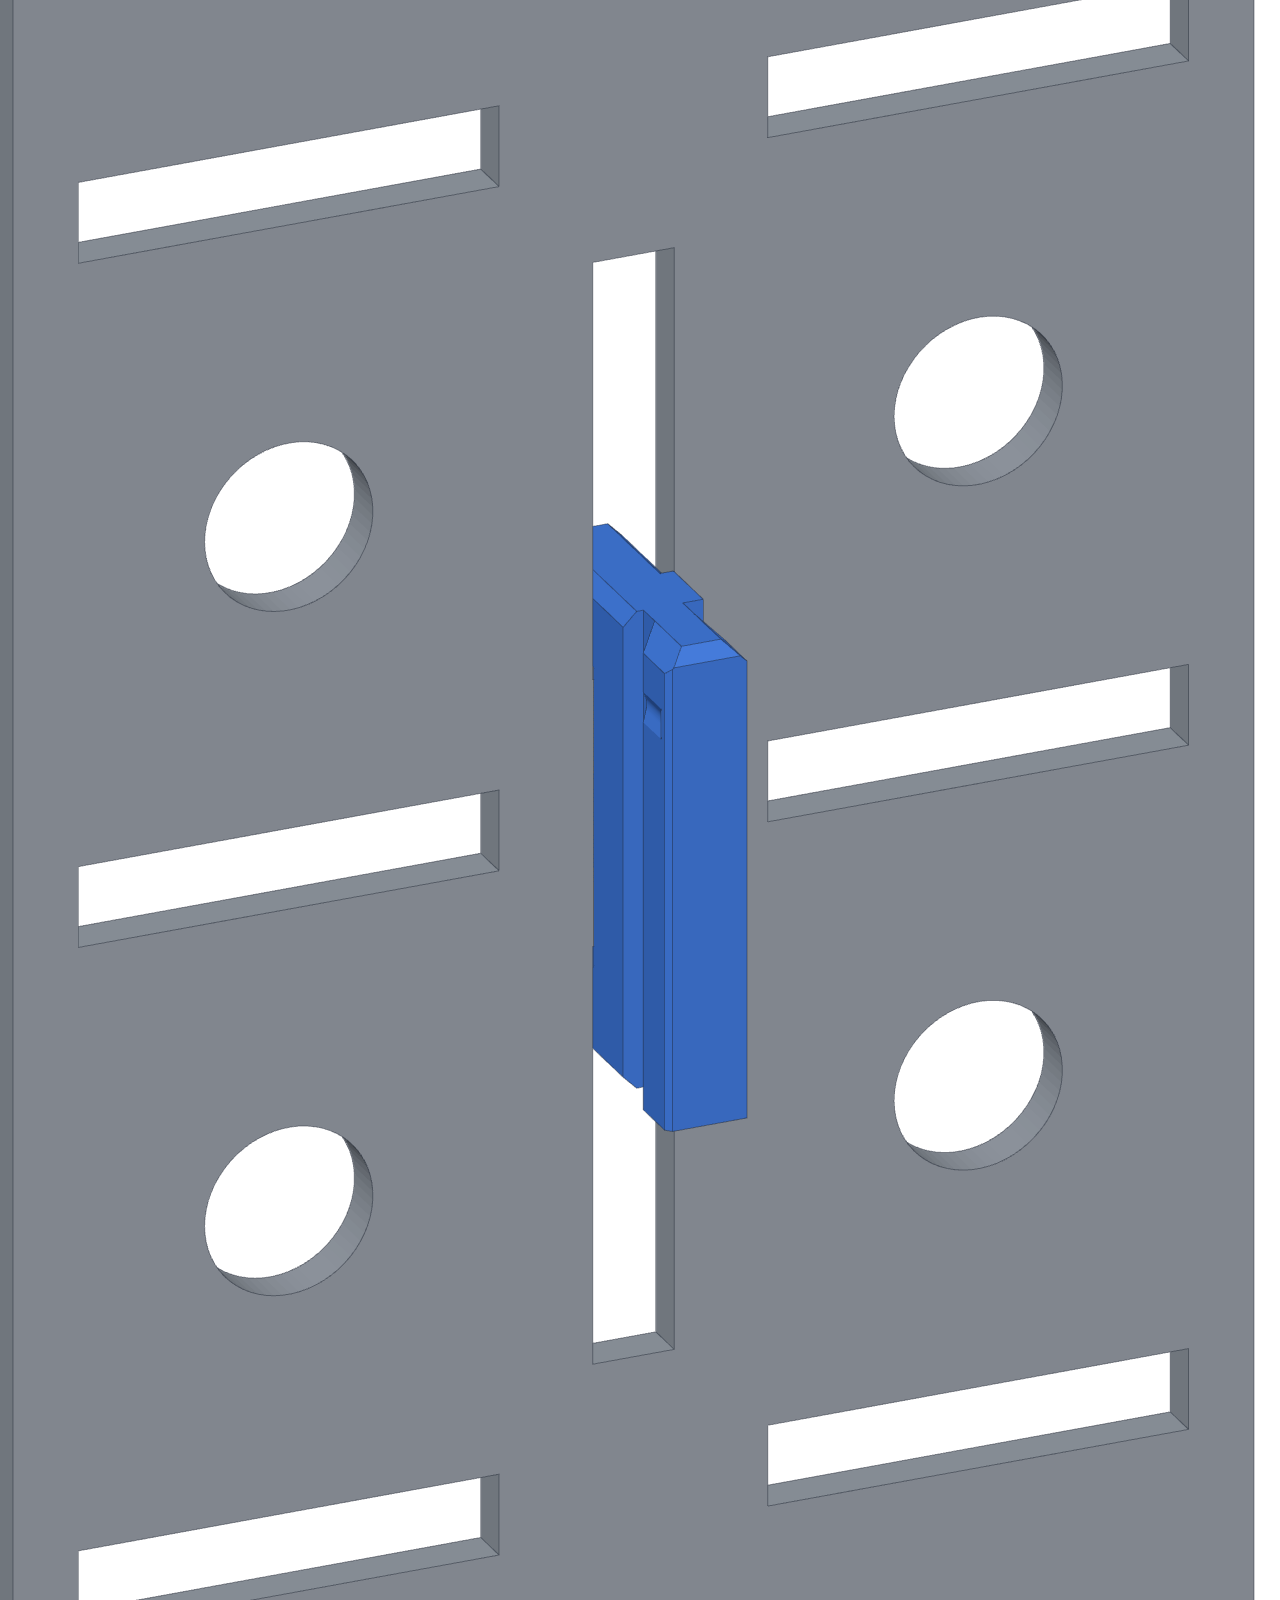
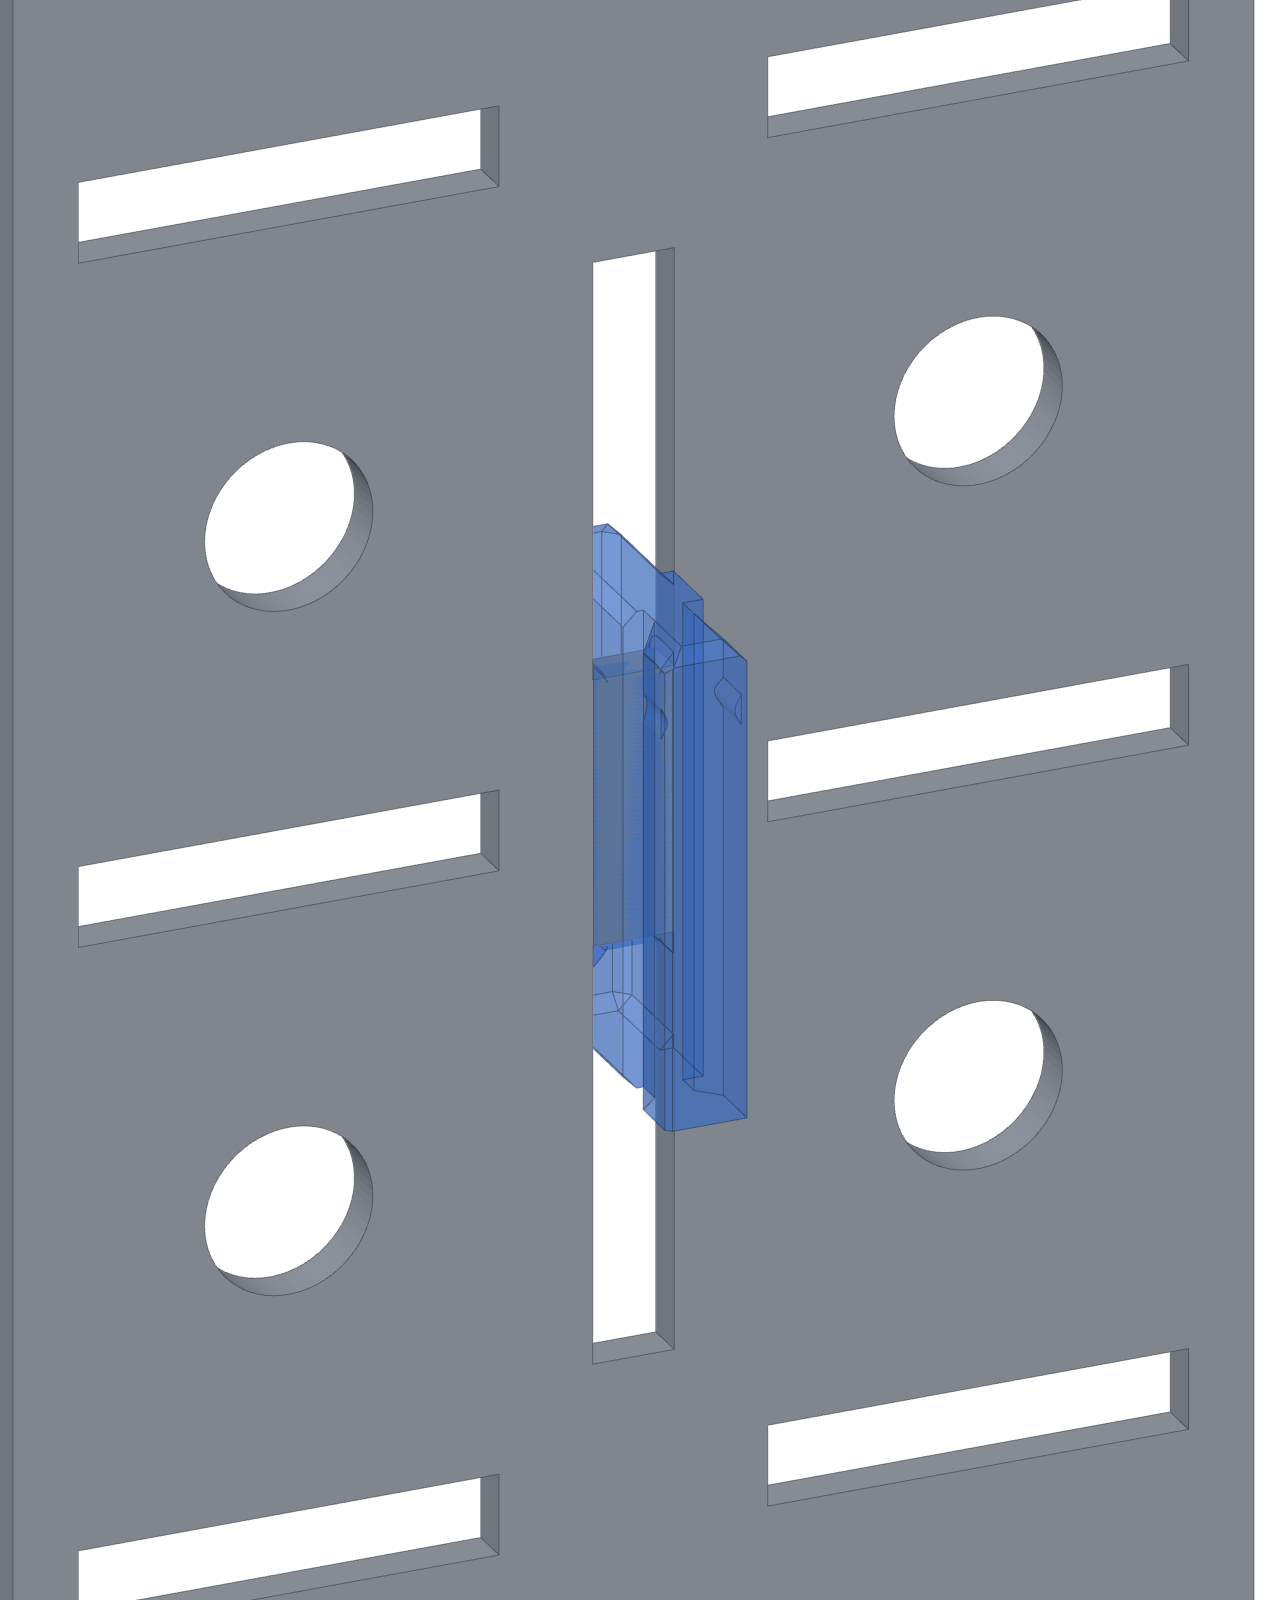
Catalog: hook front views drawn see-through, so the steel each hook grips shows behind its front

Changed region(s): [[0.4375, 0.3125, 0.5938, 0.7188]]

diff --git a/docs/omniwall/bridge-hook-1u.html b/docs/omniwall/bridge-hook-1u.html
@@ -24,7 +24,7 @@
 <img class="shot" src="img/bridge-hook-1u/hook.png" alt="The hook: dovetail front on the right, finger and foot on the left go through the panel">
 <div class="caption">The hook: dovetail front on the right, finger and foot on the left go through the panel</div>
 </div>
-<div class="thumbs"><button type="button" data-src="img/bridge-hook-1u/hook.png" data-caption="The hook: dovetail front on the right, finger and foot on the left go through the panel" aria-pressed="true"><img src="img/bridge-hook-1u/hook.png" alt=""></button><button type="button" data-src="img/bridge-hook-1u/front.png" data-caption="On the panel, from the front: objects slide down onto the dovetail" aria-pressed="false"><img src="img/bridge-hook-1u/front.png" alt=""></button><button type="button" data-src="img/bridge-hook-1u/back.png" data-caption="From behind the panel" aria-pressed="false"><img src="img/bridge-hook-1u/back.png" alt=""></button><button type="button" data-src="img/bridge-hook-1u/side.png" data-caption="Side view: wall on the left, steel in grey" aria-pressed="false"><img src="img/bridge-hook-1u/side.png" alt=""></button><button type="button" data-src="img/bridge-hook-1u/print.png" data-caption="As printed: on its flat side, no supports" aria-pressed="false"><img src="img/bridge-hook-1u/print.png" alt=""></button><button type="button" class="three" data-caption="3D view: drag to turn it" aria-pressed="false">3D</button></div>
+<div class="thumbs"><button type="button" data-src="img/bridge-hook-1u/hook.png" data-caption="The hook: dovetail front on the right, finger and foot on the left go through the panel" aria-pressed="true"><img src="img/bridge-hook-1u/hook.png" alt=""></button><button type="button" data-src="img/bridge-hook-1u/front.png" data-caption="On the panel, from the front, the hook drawn see-through so the steel behind it shows. Objects slide down onto the dovetail" aria-pressed="false"><img src="img/bridge-hook-1u/front.png" alt=""></button><button type="button" data-src="img/bridge-hook-1u/back.png" data-caption="From behind the panel" aria-pressed="false"><img src="img/bridge-hook-1u/back.png" alt=""></button><button type="button" data-src="img/bridge-hook-1u/side.png" data-caption="Side view: wall on the left, steel in grey" aria-pressed="false"><img src="img/bridge-hook-1u/side.png" alt=""></button><button type="button" data-src="img/bridge-hook-1u/print.png" data-caption="As printed: on its flat side, no supports" aria-pressed="false"><img src="img/bridge-hook-1u/print.png" alt=""></button><button type="button" class="three" data-caption="3D view: drag to turn it" aria-pressed="false">3D</button></div>
 </div>
 <div class="facts">
 <h3>How it works</h3><p>The top bar goes through the upper slot and rests on its bottom edge, with a finger hanging behind the panel. The finger leaves a 1.5 mm gap for the 1.55 mm steel, so the hook clamps the panel and doesn&#x27;t wobble. The foot goes through the slot below and sits under that slot&#x27;s top edge, so a bump from underneath can&#x27;t lift the mount off. Put it on by putting the finger through the upper slot and swinging the foot into the lower one.</p><p class="note">Was called: bridge hook, cross-slot hook.</p>

diff --git a/docs/omniwall/bridge-hook-2u.html b/docs/omniwall/bridge-hook-2u.html
@@ -24,7 +24,7 @@
 <img class="shot" src="img/bridge-hook-2u/hook.png" alt="The hook: dovetail front on the right, finger and foot on the left go through the panel">
 <div class="caption">The hook: dovetail front on the right, finger and foot on the left go through the panel</div>
 </div>
-<div class="thumbs"><button type="button" data-src="img/bridge-hook-2u/hook.png" data-caption="The hook: dovetail front on the right, finger and foot on the left go through the panel" aria-pressed="true"><img src="img/bridge-hook-2u/hook.png" alt=""></button><button type="button" data-src="img/bridge-hook-2u/front.png" data-caption="On the panel, from the front: objects slide down onto the dovetail" aria-pressed="false"><img src="img/bridge-hook-2u/front.png" alt=""></button><button type="button" data-src="img/bridge-hook-2u/back.png" data-caption="From behind the panel" aria-pressed="false"><img src="img/bridge-hook-2u/back.png" alt=""></button><button type="button" data-src="img/bridge-hook-2u/side.png" data-caption="Side view: wall on the left, steel in grey" aria-pressed="false"><img src="img/bridge-hook-2u/side.png" alt=""></button><button type="button" data-src="img/bridge-hook-2u/print.png" data-caption="As printed: on its flat side, no supports" aria-pressed="false"><img src="img/bridge-hook-2u/print.png" alt=""></button><button type="button" class="three" data-caption="3D view: drag to turn it" aria-pressed="false">3D</button></div>
+<div class="thumbs"><button type="button" data-src="img/bridge-hook-2u/hook.png" data-caption="The hook: dovetail front on the right, finger and foot on the left go through the panel" aria-pressed="true"><img src="img/bridge-hook-2u/hook.png" alt=""></button><button type="button" data-src="img/bridge-hook-2u/front.png" data-caption="On the panel, from the front, the hook drawn see-through so the steel behind it shows. Objects slide down onto the dovetail" aria-pressed="false"><img src="img/bridge-hook-2u/front.png" alt=""></button><button type="button" data-src="img/bridge-hook-2u/back.png" data-caption="From behind the panel" aria-pressed="false"><img src="img/bridge-hook-2u/back.png" alt=""></button><button type="button" data-src="img/bridge-hook-2u/side.png" data-caption="Side view: wall on the left, steel in grey" aria-pressed="false"><img src="img/bridge-hook-2u/side.png" alt=""></button><button type="button" data-src="img/bridge-hook-2u/print.png" data-caption="As printed: on its flat side, no supports" aria-pressed="false"><img src="img/bridge-hook-2u/print.png" alt=""></button><button type="button" class="three" data-caption="3D view: drag to turn it" aria-pressed="false">3D</button></div>
 </div>
 <div class="facts">
 <h3>How it works</h3><p>Goes on like Bridge hook 1U. The part behind the panel is the same; the dovetail front rises to the upper slot&#x27;s top, with a second notch pair one cell lower. The front has to run down to the foot (it&#x27;s the only link to it), so only one fits per column of a housing: a second one, or a Slot hook 1U, one row below would overlap it by 4.3 mm.</p><p class="note">Was called: tall bridge hook.</p>

diff --git a/docs/omniwall/slot-hook-2u.html b/docs/omniwall/slot-hook-2u.html
@@ -24,7 +24,7 @@
 <img class="shot" src="img/slot-hook-2u/hook.png" alt="The hook: dovetail front on the right, finger and foot on the left go through the panel">
 <div class="caption">The hook: dovetail front on the right, finger and foot on the left go through the panel</div>
 </div>
-<div class="thumbs"><button type="button" data-src="img/slot-hook-2u/hook.png" data-caption="The hook: dovetail front on the right, finger and foot on the left go through the panel" aria-pressed="true"><img src="img/slot-hook-2u/hook.png" alt=""></button><button type="button" data-src="img/slot-hook-2u/front.png" data-caption="On the panel, from the front: objects slide down onto the dovetail" aria-pressed="false"><img src="img/slot-hook-2u/front.png" alt=""></button><button type="button" data-src="img/slot-hook-2u/back.png" data-caption="From behind the panel" aria-pressed="false"><img src="img/slot-hook-2u/back.png" alt=""></button><button type="button" data-src="img/slot-hook-2u/side.png" data-caption="Side view: wall on the left, steel in grey" aria-pressed="false"><img src="img/slot-hook-2u/side.png" alt=""></button><button type="button" data-src="img/slot-hook-2u/print.png" data-caption="As printed: on its flat side, no supports" aria-pressed="false"><img src="img/slot-hook-2u/print.png" alt=""></button><button type="button" class="three" data-caption="3D view: drag to turn it" aria-pressed="false">3D</button></div>
+<div class="thumbs"><button type="button" data-src="img/slot-hook-2u/hook.png" data-caption="The hook: dovetail front on the right, finger and foot on the left go through the panel" aria-pressed="true"><img src="img/slot-hook-2u/hook.png" alt=""></button><button type="button" data-src="img/slot-hook-2u/front.png" data-caption="On the panel, from the front, the hook drawn see-through so the steel behind it shows. Objects slide down onto the dovetail" aria-pressed="false"><img src="img/slot-hook-2u/front.png" alt=""></button><button type="button" data-src="img/slot-hook-2u/back.png" data-caption="From behind the panel" aria-pressed="false"><img src="img/slot-hook-2u/back.png" alt=""></button><button type="button" data-src="img/slot-hook-2u/side.png" data-caption="Side view: wall on the left, steel in grey" aria-pressed="false"><img src="img/slot-hook-2u/side.png" alt=""></button><button type="button" data-src="img/slot-hook-2u/print.png" data-caption="As printed: on its flat side, no supports" aria-pressed="false"><img src="img/slot-hook-2u/print.png" alt=""></button><button type="button" class="three" data-caption="3D view: drag to turn it" aria-pressed="false">3D</button></div>
 </div>
 <div class="facts">
 <h3>How it works</h3><p>The top fills the upper slot like Slot hook 1U, with no snap of its own. One pitch lower, a firmer foot snaps over the lower slot&#x27;s bottom rim (snap E: 4.0 mm foot, 0.10 mm grip on the steel, 0.9 mm lip with a 0.4 mm flat tip). One dovetail front runs the whole 45.7 mm, with notch pairs where two Slot hook 1Us&#x27; would be.</p><p class="note">Was called: slot hook 2, two-slot hook.</p>

diff --git a/docs/omniwall/slot-hook-1u.html b/docs/omniwall/slot-hook-1u.html
@@ -24,7 +24,7 @@
 <img class="shot" src="img/slot-hook-1u/hook.png" alt="The hook: dovetail front on the right, finger and foot on the left go through the panel">
 <div class="caption">The hook: dovetail front on the right, finger and foot on the left go through the panel</div>
 </div>
-<div class="thumbs"><button type="button" data-src="img/slot-hook-1u/hook.png" data-caption="The hook: dovetail front on the right, finger and foot on the left go through the panel" aria-pressed="true"><img src="img/slot-hook-1u/hook.png" alt=""></button><button type="button" data-src="img/slot-hook-1u/front.png" data-caption="On the panel, from the front: objects slide down onto the dovetail" aria-pressed="false"><img src="img/slot-hook-1u/front.png" alt=""></button><button type="button" data-src="img/slot-hook-1u/back.png" data-caption="From behind the panel" aria-pressed="false"><img src="img/slot-hook-1u/back.png" alt=""></button><button type="button" data-src="img/slot-hook-1u/side.png" data-caption="Side view: wall on the left, steel in grey" aria-pressed="false"><img src="img/slot-hook-1u/side.png" alt=""></button><button type="button" data-src="img/slot-hook-1u/print.png" data-caption="As printed: on its flat side, no supports" aria-pressed="false"><img src="img/slot-hook-1u/print.png" alt=""></button><button type="button" class="three" data-caption="3D view: drag to turn it" aria-pressed="false">3D</button></div>
+<div class="thumbs"><button type="button" data-src="img/slot-hook-1u/hook.png" data-caption="The hook: dovetail front on the right, finger and foot on the left go through the panel" aria-pressed="true"><img src="img/slot-hook-1u/hook.png" alt=""></button><button type="button" data-src="img/slot-hook-1u/front.png" data-caption="On the panel, from the front, the hook drawn see-through so the steel behind it shows. Objects slide down onto the dovetail" aria-pressed="false"><img src="img/slot-hook-1u/front.png" alt=""></button><button type="button" data-src="img/slot-hook-1u/back.png" data-caption="From behind the panel" aria-pressed="false"><img src="img/slot-hook-1u/back.png" alt=""></button><button type="button" data-src="img/slot-hook-1u/side.png" data-caption="Side view: wall on the left, steel in grey" aria-pressed="false"><img src="img/slot-hook-1u/side.png" alt=""></button><button type="button" data-src="img/slot-hook-1u/print.png" data-caption="As printed: on its flat side, no supports" aria-pressed="false"><img src="img/slot-hook-1u/print.png" alt=""></button><button type="button" class="three" data-caption="3D view: drag to turn it" aria-pressed="false">3D</button></div>
 </div>
 <div class="facts">
 <h3>How it works</h3><p>A finger goes up behind the panel above the slot, and the body fills the slot&#x27;s full 15.5 mm height. A cavity open to the back lets the foot flex: push the bottom in, the 25° ramp rides over the slot&#x27;s bottom rim, and the foot drops with the rim in its notch.</p><p class="note">Was called: slot hook 1, one-slot hook.</p>

diff --git a/omniwall/catalog/build_catalog.py b/omniwall/catalog/build_catalog.py
@@ -129,7 +129,9 @@ def hooks(r, built):
         frame = dict(center=[cx, 5.5, -4.5], halfHeight=27)        # every hook at the same scale
         imgs = [
             (r.shot(idir / "hook.png", [blue], w=640, h=800, view=[1, 1.3, 0.7], **frame), "The hook: dovetail front on the right, finger and foot on the left go through the panel"),
-            (r.shot(idir / "front.png", [blue, dict(stl=piece, **steel)], w=640, h=800, view=[0.7, 1.6, 0.8], **frame), "On the panel, from the front: objects slide down onto the dovetail"),
+            # see-through: the front covers the slot exactly, so solid it hides which steel it grips
+            (r.shot(idir / "front.png", [dict(blue, opacity=0.45), dict(stl=piece, **steel)], w=640, h=800, view=[0.7, 1.6, 0.8], **frame),
+             "On the panel, from the front, the hook drawn see-through so the steel behind it shows. Objects slide down onto the dovetail"),
             (r.shot(idir / "back.png", [blue, dict(stl=piece, **steel)], w=640, h=800, view=[0.7, -1.6, 0.6], **frame), "From behind the panel"),
             (r.shot(idir / "side.png", [blue, dict(stl=strip, **steel)], w=640, h=800, view=[1, 0, 0], **frame), "Side view: wall on the left, steel in grey"),
             (r.shot(idir / "print.png", [dict(stl=flat, color=COL["hook"])], w=800, h=500, view=[0.35, -1, 0.9], pad=1.2), "As printed: on its flat side, no supports"),
